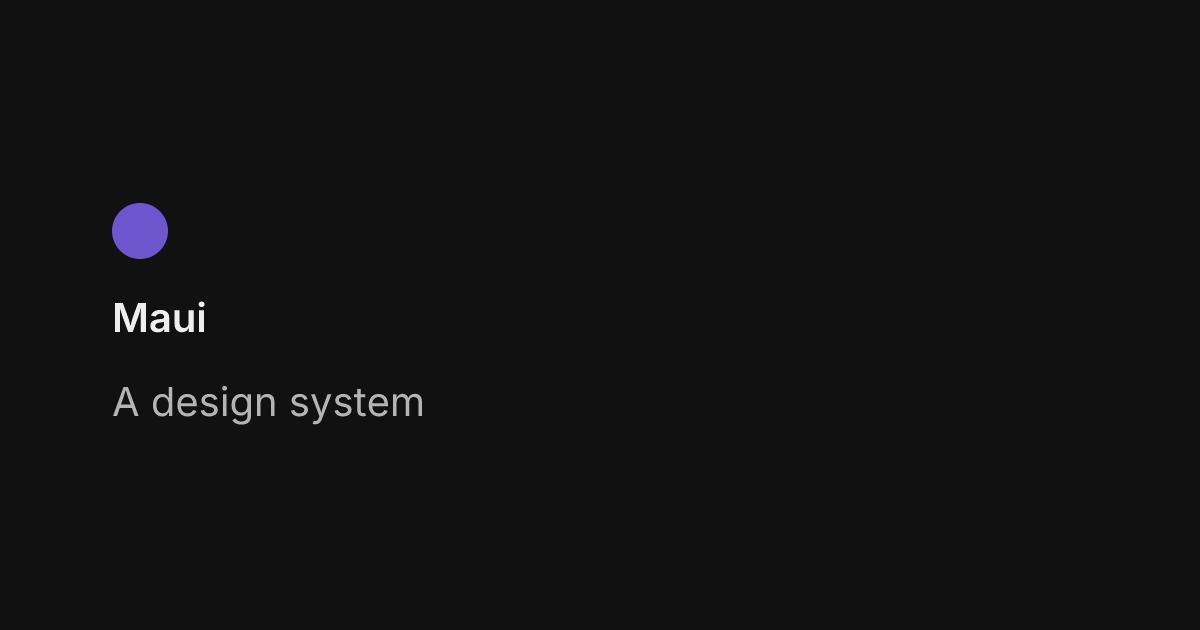
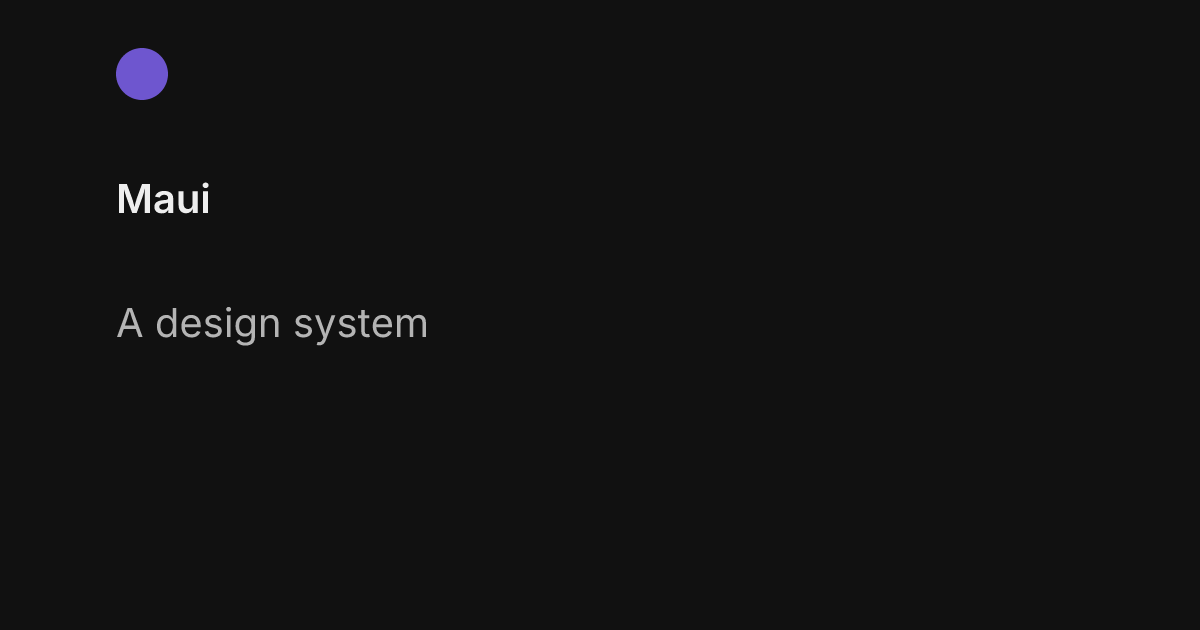
Apply OG layout config; fix padding Y in playground
Top-align content so vertical padding is visible, and use
padding 48/116, gap 72, circle 52.

diff --git a/src/public/og.html b/src/public/og.html
@@ -189,7 +189,7 @@
 				font-family: Inter, system-ui, sans-serif;
 				display: flex;
 				flex-direction: column;
-				justify-content: center;
+				justify-content: flex-start;
 				align-items: flex-start;
 			}
 
@@ -242,14 +242,14 @@
 
 				<label>
 					<span class="row"
-						>Padding Y <output id="out-paddingY">64</output></span
+						>Padding Y <output id="out-paddingY">48</output></span
 					>
-					<input id="paddingY" type="range" min="24" max="160" step="4" value="64" />
+					<input id="paddingY" type="range" min="24" max="160" step="4" value="48" />
 				</label>
 
 				<label>
 					<span class="row"
-						>Padding X <output id="out-paddingX">112</output></span
+						>Padding X <output id="out-paddingX">116</output></span
 					>
 					<input
 						id="paddingX"
@@ -257,20 +257,20 @@
 						min="40"
 						max="200"
 						step="4"
-						value="112"
+						value="116"
 					/>
 				</label>
 
 				<label>
-					<span class="row">Gap <output id="out-gap">32</output></span>
-					<input id="gap" type="range" min="8" max="80" step="2" value="32" />
+					<span class="row">Gap <output id="out-gap">72</output></span>
+					<input id="gap" type="range" min="8" max="120" step="2" value="72" />
 				</label>
 
 				<label>
 					<span class="row"
-						>Circle size <output id="out-circle">56</output></span
+						>Circle size <output id="out-circle">52</output></span
 					>
-					<input id="circle" type="range" min="24" max="120" step="2" value="56" />
+					<input id="circle" type="range" min="24" max="120" step="2" value="52" />
 				</label>
 
 				<label>
@@ -341,10 +341,10 @@
 
 			const defaults = {
 				theme: "light",
-				paddingY: 64,
-				paddingX: 112,
-				gap: 32,
-				circle: 56,
+				paddingY: 48,
+				paddingX: 116,
+				gap: 72,
+				circle: 52,
 				fontSize: 40,
 				lineHeight: 1.3,
 			}
